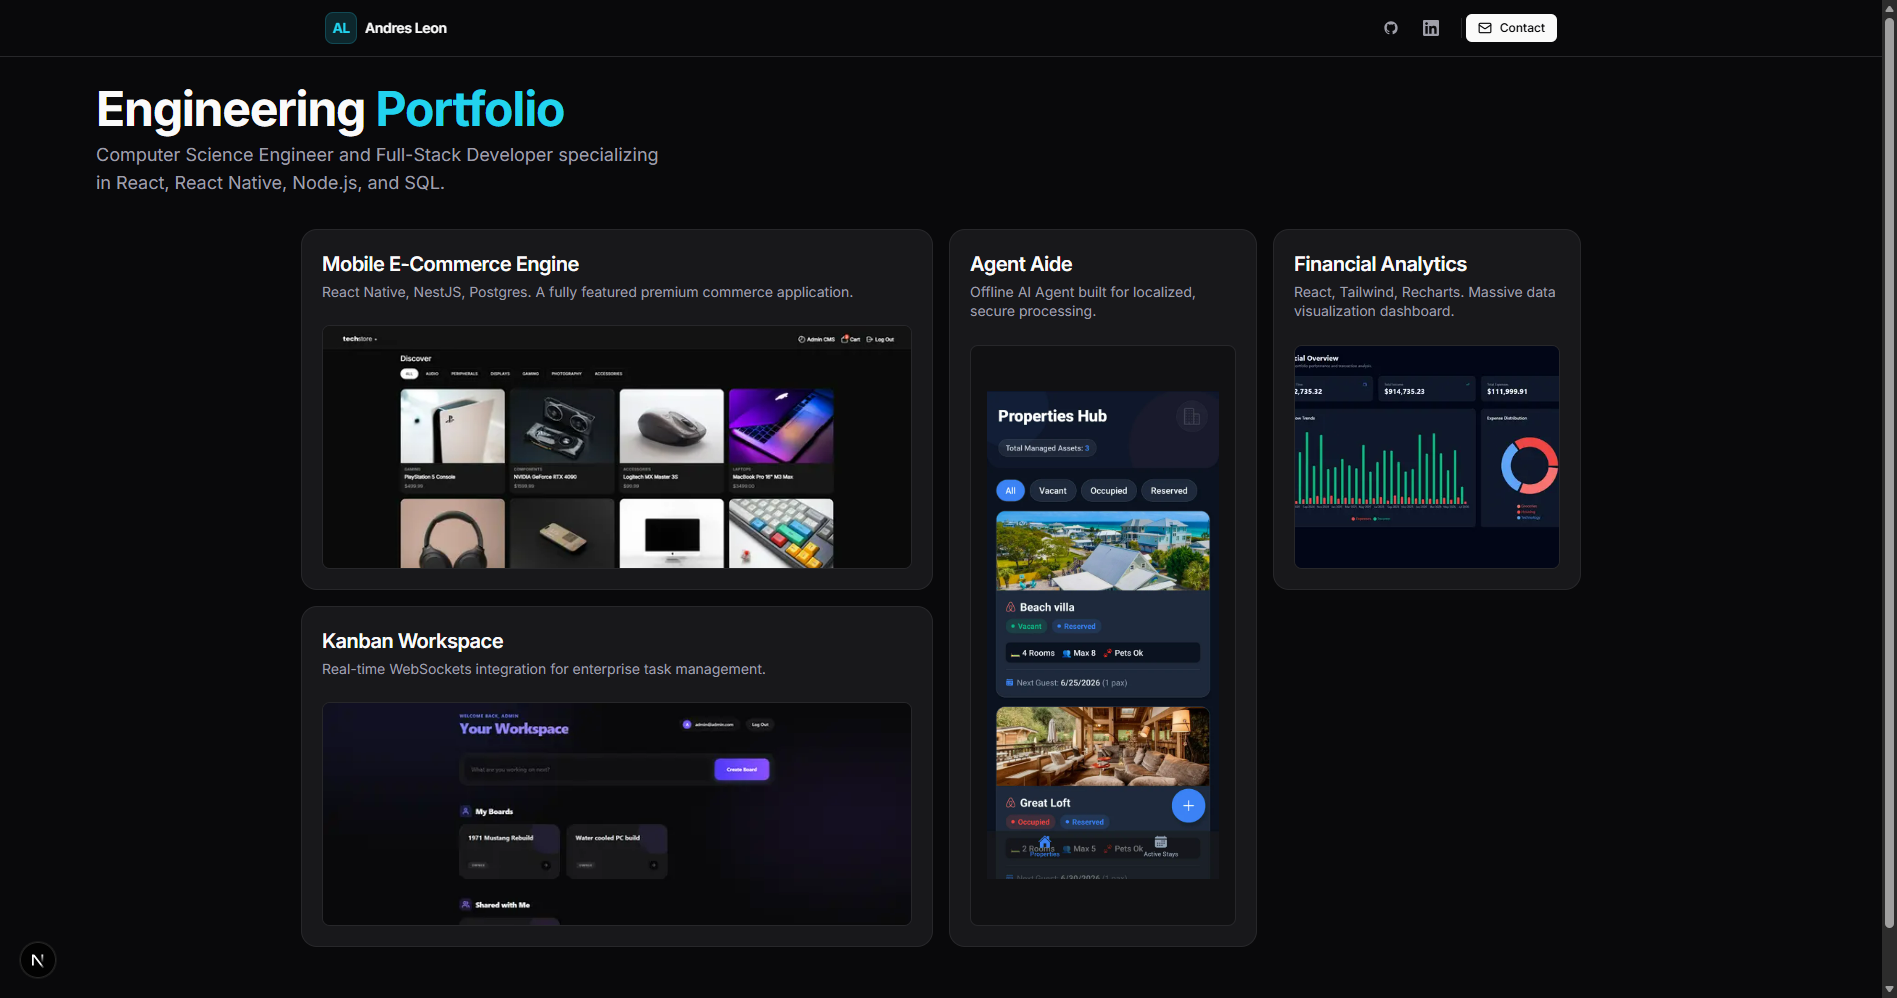
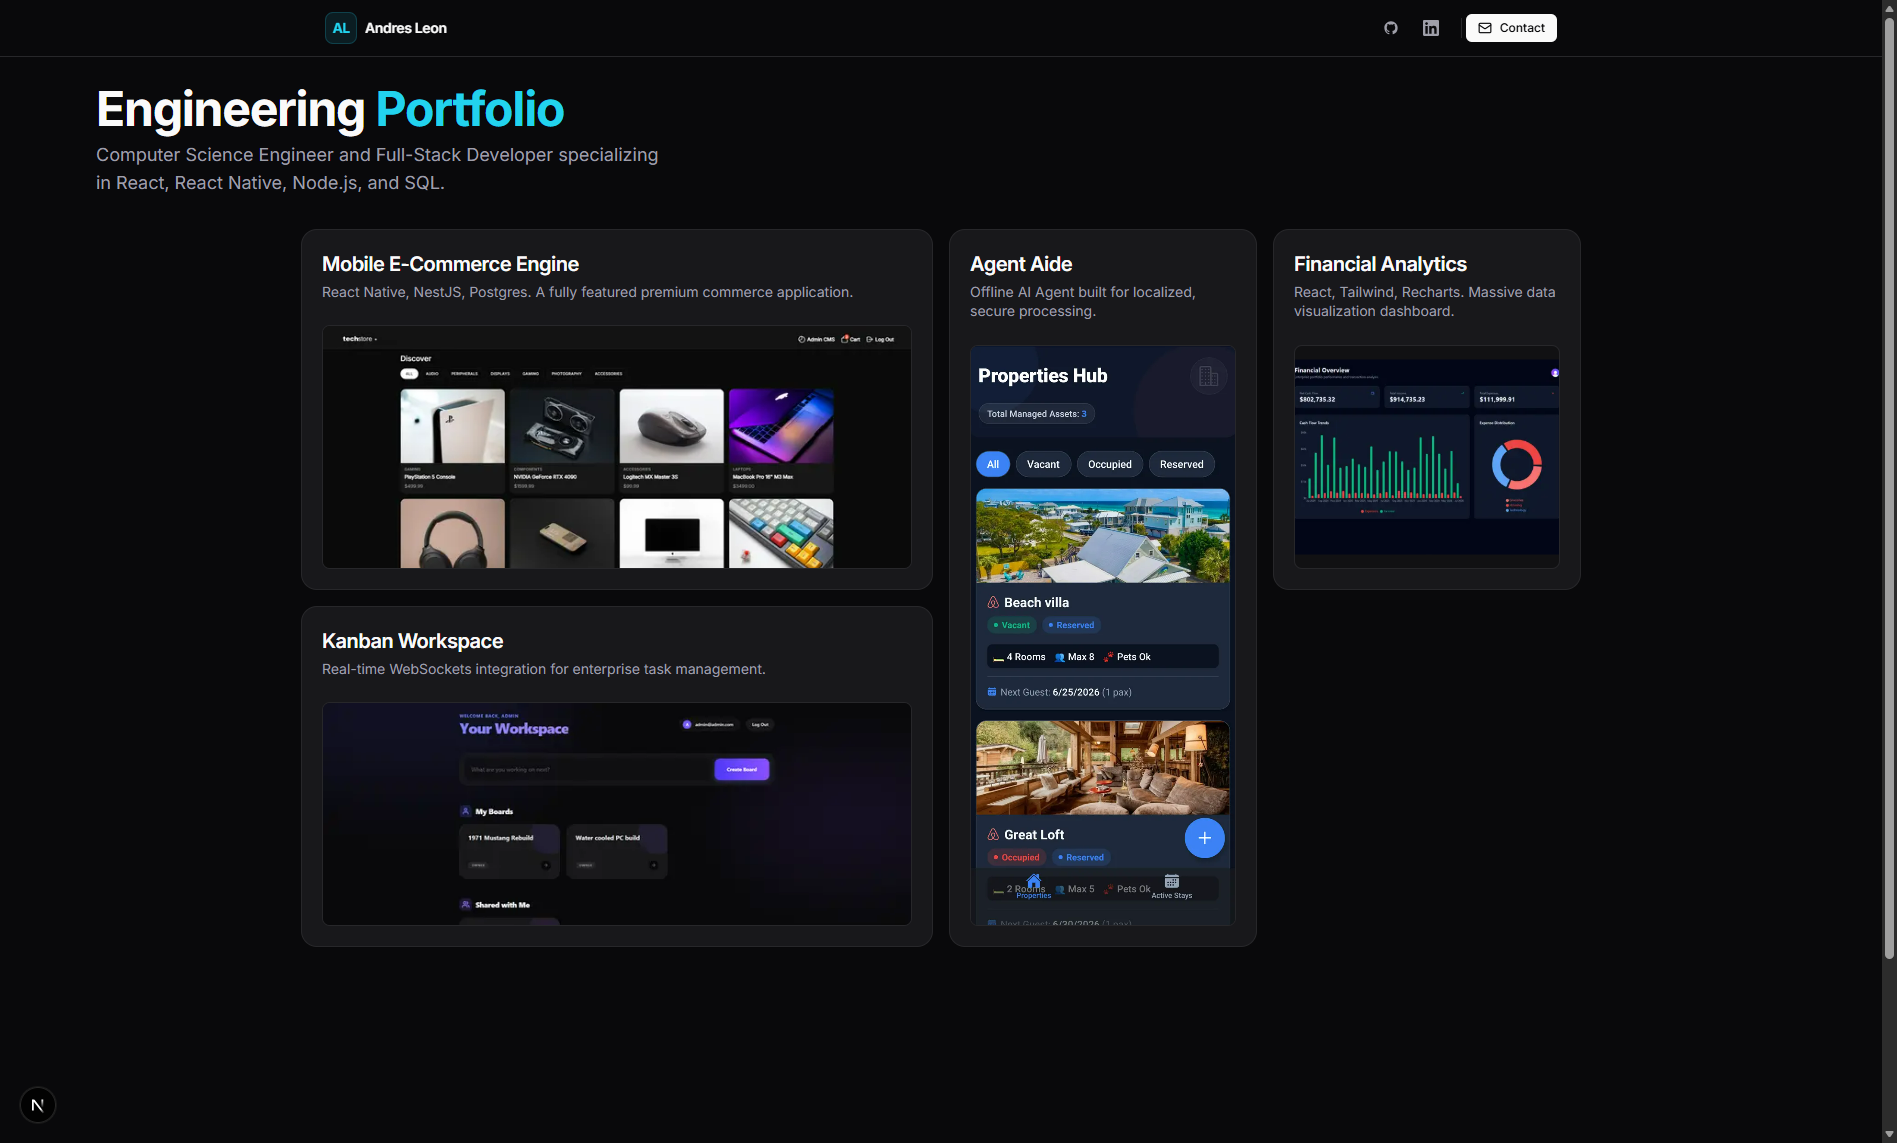
feat: finalize framer motion compositional layout and responsive image scaling

diff --git a/app/page.tsx b/app/page.tsx
@@ -24,7 +24,7 @@ export default function Home() {
             <Link 
               key={project.id} 
               href={`/projects/${project.id}`} 
-              className={`${project.className} ${project.rowSpan || ""}`}
+              className={`group block ${project.className || ""} ${project.rowSpan || ""}`}
             >
               <BentoCard 
                 title={project.title} 
@@ -39,12 +39,12 @@ export default function Home() {
                       fill
                       priority={index === 0}
                       sizes="(max-width: 768px) 100vw, (max-width: 1200px) 50vw, 33vw"
-                      className={`transition-transform duration-500 hover:scale-105 ${project.imageStyle}`}
+                      className={`transition-transform duration-500 group-hover:scale-105 ${project.imageStyle || ""}`}
                     />
                   </div>
                 ) : (
                   <div className="grow min-h-56 w-full bg-zinc-950/50 rounded-lg flex items-center justify-center border border-surface-border mt-3">
-                    <Icon className="w-10 h-10 text-accent/50" />
+                    {Icon && <Icon className="w-10 h-10 text-accent/50" />}
                   </div>
                 )}
               </BentoCard>